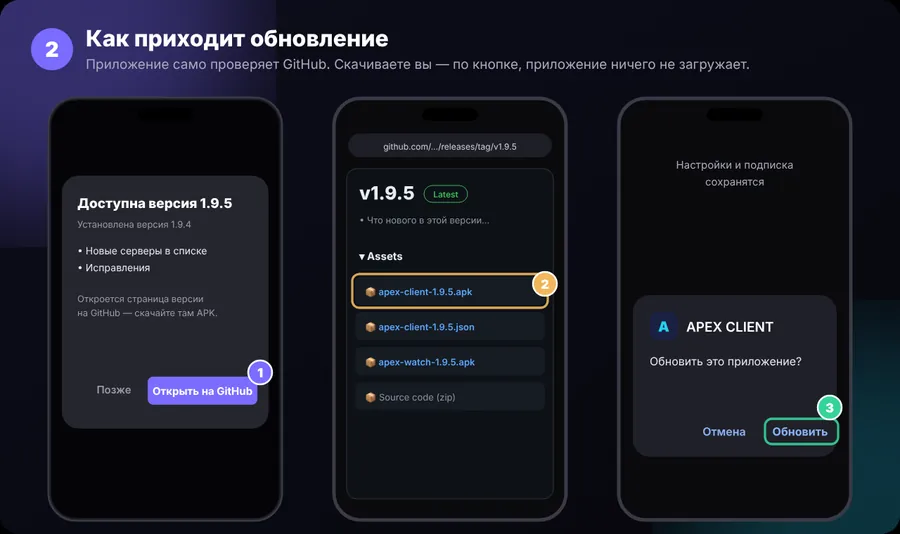
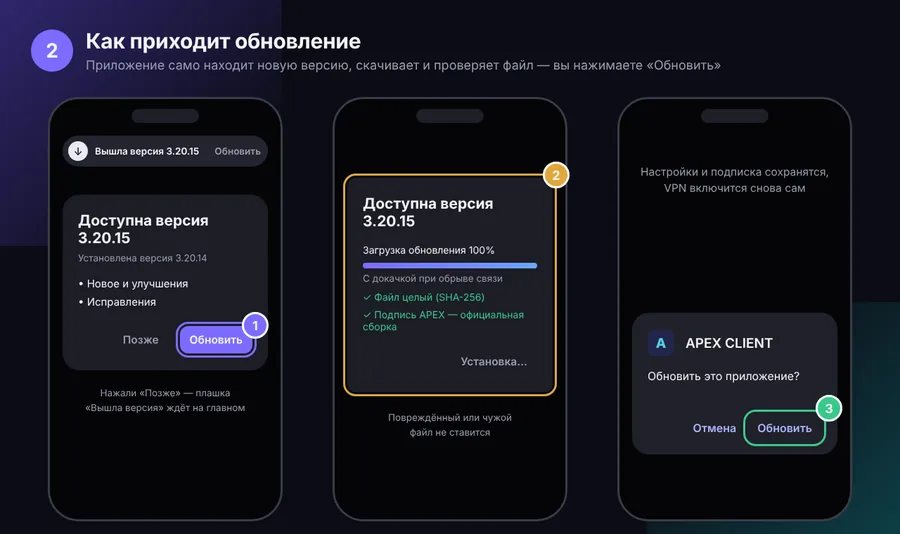
3.20.15: новые картинки и шаги «Установка» и «Как приходит обновление» (README и справка в приложении)
Claude-Session: https://claude.ai/code/session_01WchbezWYjwEwUD5w8vECWt

diff --git a/tools/guide-update/scene.html b/tools/guide-update/scene.html
@@ -1,0 +1,126 @@
+<!doctype html>
+<!-- Картинки-инструкции README: «Скачайте и установите» (?s=install) и «Как приходит обновление» (?s=update).
+     Кадр задаётся через window.frame(t), t от 0 до 1. Сборка: node render.js -->
+<html lang="ru"><head><meta charset="utf-8">
+<style>
+:root{--bg:#0b0c14;--card:#1c1d26;--line:#2c2e3a;--text:#f2f3f7;--dim:#9a9db0;--violet:#7c6cff;--gold:#e0a73c;--green:#38c98a;--blue:#6aa8ff}
+*{box-sizing:border-box;margin:0}
+body{width:1280px;height:760px;overflow:hidden;background:var(--bg);font-family:Inter,sans-serif;color:var(--text);position:relative}
+.glow1{position:absolute;left:0;top:0;width:400px;height:350px;background:linear-gradient(135deg,#3a2f8a,transparent 80%);opacity:.75}
+.glow2{position:absolute;right:0;bottom:0;width:360px;height:330px;background:linear-gradient(315deg,#0f4a52,transparent 80%);opacity:.8}
+.head{position:absolute;left:44px;top:40px;display:flex;gap:18px;align-items:center}
+.num{width:60px;height:60px;border-radius:50%;background:var(--violet);display:grid;place-items:center;font-size:28px;font-weight:700}
+h1{font-size:30px;font-weight:700;letter-spacing:-.3px}
+.sub{color:var(--dim);font-size:18px;margin-top:6px}
+.phone{position:absolute;top:138px;width:334px;height:604px;border-radius:44px;border:3px solid #3a3c48;background:#050507;padding:52px 18px 18px;overflow:hidden}
+.phone:before{content:"";position:absolute;left:50%;top:14px;width:96px;height:20px;margin-left:-48px;border-radius:12px;background:#1e1f27}
+.p1{left:68px}.p2{left:473px}.p3{left:878px}
+.badge{position:absolute;width:38px;height:38px;border-radius:50%;display:grid;place-items:center;font-weight:700;font-size:18px;border:3px solid #fff;transform:scale(0);transition:none;z-index:3}
+.dlg{background:var(--card);border-radius:24px;padding:24px 22px}
+.dlg h2{font-size:21px;font-weight:700}
+.small{color:var(--dim);font-size:13.5px;line-height:1.5}
+.btns{display:flex;justify-content:flex-end;gap:16px;align-items:center;margin-top:22px}
+.btn{padding:10px 14px;border-radius:10px;font-weight:600;font-size:15.5px}
+.ghost{color:var(--dim)}
+.ring{outline:3px solid transparent;outline-offset:3px;border-radius:12px}
+.center{text-align:center}
+.bar{height:8px;border-radius:5px;background:#2c2e3a;overflow:hidden;margin:10px 0 4px}
+.bar i{display:block;height:100%;width:0;background:linear-gradient(90deg,var(--violet),var(--blue))}
+.check{color:var(--green);font-size:14px;margin-top:8px;opacity:0}
+.pill{display:flex;align-items:center;gap:10px;background:#23242f;border-radius:30px;padding:8px 10px 8px 8px;font-size:13.5px;font-weight:600}
+.pill .ic{width:28px;height:28px;border-radius:50%;background:#e9eaf2;display:grid;place-items:center;color:#1a1b22;font-size:15px}
+.pill .go{margin-left:auto;color:var(--dim)}
+.sys{position:absolute;left:18px;right:18px;bottom:92px;background:#202129;border-radius:24px;padding:24px 22px 18px}
+.app{display:flex;gap:16px;align-items:center;font-size:19px;font-weight:600}
+.logo{width:38px;height:38px;border-radius:9px;background:#22264a;display:grid;place-items:center;color:#4fd1e8;font-weight:800}
+.sysbtn{color:#aab4ff;font-weight:600;font-size:16px}
+.site{background:linear-gradient(160deg,#1d1840,#0b0c14 70%);border-radius:22px;padding:22px 18px;height:100%}
+.url{background:#1c1d26;border-radius:14px;padding:8px;text-align:center;font-size:13px;color:#c9cbd6;margin-bottom:22px}
+.shield{width:92px;height:104px;margin:16px auto 12px;background:linear-gradient(160deg,#8b7dff,#4d3fd6);clip-path:path('M46 0 L92 18 L92 52 C92 80 70 96 46 104 C22 96 0 80 0 52 L0 18 Z');display:grid;place-items:center;font-size:40px}
+.dlbtn{background:var(--violet);border-radius:14px;padding:14px;text-align:center;font-weight:700;font-size:16px;margin-top:22px}
+.file{background:var(--card);border-radius:16px;padding:16px 18px}
+.file b{font-size:16px}
+.tip{border:1.5px solid #7a5a2a;background:#2a2116;border-radius:16px;padding:16px 18px;font-size:15px;line-height:1.5}
+</style></head><body>
+<div class="glow1"></div><div class="glow2"></div>
+<div id="root"></div>
+<script>
+const V = '3.20.15', OLD = '3.20.14';
+const S = new URLSearchParams(location.search).get('s') || 'update';
+const B = (n, color, x, y) => `<div class="badge" id="b${n}" style="background:${color};left:${x}px;top:${y}px">${n}</div>`;
+const scenes = {
+install: `
+<div class="head"><div class="num">1</div><div><h1>Скачайте и установите</h1>
+<div class="sub">Сайт dubstep2004.github.io → «Скачать для телефона» → установить</div></div></div>
+<div class="phone p1"><div class="site">
+  <div class="url">dubstep2004.github.io</div>
+  <div class="shield">✓</div>
+  <div class="center" style="font-size:24px;font-weight:800">APEX CLIENT</div>
+  <div class="center small" style="margin-top:6px">Своё приложение для вашей подписки</div>
+  <div class="dlbtn ring" id="r1">Скачать для телефона</div>
+  <div class="center small" style="margin-top:10px">Версия ${V} · Android 7+</div>
+  <div class="center small" style="margin-top:18px;opacity:.7">Для часов — отдельная кнопка</div>
+</div></div>
+<div class="phone p2">
+  <div class="center small" style="font-size:16px;color:#d6d8e2;margin-bottom:22px">Загрузки</div>
+  <div class="file ring" id="r2"><b>apex-client-${V}.apk</b><div class="small" style="margin-top:4px">Только что</div></div>
+  <div class="center small" style="margin:40px 0;font-size:15px">Нажмите на скачанный файл<br>в загрузках или в уведомлении</div>
+  <div class="tip">Первый раз телефон спросит разрешение «Установка из браузера» — разрешите.</div>
+</div>
+<div class="phone p3">
+  <div class="center small" style="font-size:15.5px;margin-top:40px">Ставили старую версию<br>с другой подписью — удалите её</div>
+  <div class="sys"><div class="app"><div class="logo">A</div>APEX CLIENT</div>
+  <div style="margin:18px 0 44px;font-size:16px">Установить это приложение?</div>
+  <div class="btns"><span class="sysbtn">Отмена</span><span class="sysbtn btn ring" id="r3">Установить</span></div></div>
+</div>
+${B(1, 'var(--gold)', 352, 476)}${B(2, 'var(--violet)', 772, 222)}${B(3, 'var(--green)', 1160, 562)}`,
+update: `
+<div class="head"><div class="num">2</div><div><h1>Как приходит обновление</h1>
+<div class="sub">Приложение само находит новую версию, скачивает и проверяет файл — вы нажимаете «Обновить»</div></div></div>
+<div class="phone p1">
+  <div class="pill"><div class="ic">↓</div>Вышла версия ${V}<span class="go">Обновить</span></div>
+  <div class="dlg" style="margin-top:40px"><h2>Доступна версия ${V}</h2>
+  <div class="small" style="margin-top:6px">Установлена версия ${OLD}</div>
+  <div style="font-size:15px;line-height:1.7;margin-top:14px">• Новое и улучшения<br>• Исправления</div>
+  <div class="btns"><span class="btn ghost">Позже</span><span class="btn ring" id="r1" style="background:var(--violet)">Обновить</span></div></div>
+  <div class="center small" style="margin-top:22px">Нажали «Позже» — плашка<br>«Вышла версия» ждёт на главном</div>
+</div>
+<div class="phone p2">
+  <div class="dlg ring" id="r2" style="margin-top:60px"><h2>Доступна версия ${V}</h2>
+  <div style="font-size:14px;margin-top:20px" id="pct">Загрузка обновления 0%</div>
+  <div class="bar"><i id="bar"></i></div>
+  <div class="small">С докачкой при обрыве связи</div>
+  <div class="check" id="c1">✓ Файл целый (SHA-256)</div>
+  <div class="check" id="c2">✓ Подпись APEX — официальная сборка</div>
+  <div class="btns"><span class="btn ghost" id="st">Загрузка…</span></div></div>
+  <div class="center small" style="margin-top:26px">Повреждённый или чужой<br>файл не ставится</div>
+</div>
+<div class="phone p3">
+  <div class="center small" style="font-size:15.5px;margin-top:40px">Настройки и подписка сохранятся,<br>VPN включится снова сам</div>
+  <div class="sys"><div class="app"><div class="logo">A</div>APEX CLIENT</div>
+  <div style="margin:18px 0 44px;font-size:16px">Обновить это приложение?</div>
+  <div class="btns"><span class="sysbtn">Отмена</span><span class="sysbtn btn ring" id="r3">Обновить</span></div></div>
+</div>
+${B(1, 'var(--violet)', 344, 444)}${B(2, 'var(--gold)', 772, 230)}${B(3, 'var(--green)', 1160, 562)}`};
+document.getElementById('root').innerHTML = scenes[S];
+const colors = S === 'install' ? ['var(--gold)', 'var(--violet)', 'var(--green)'] : ['var(--violet)', 'var(--gold)', 'var(--green)'];
+const pop = (x) => x <= 0 ? 0 : x >= 1 ? 1 : 1 + 0.25 * Math.sin(Math.PI * x) * (1 - x) * 3 - 0.0;
+window.frame = (t) => {
+  const starts = [0.04, 0.32, 0.66];
+  starts.forEach((s, i) => {
+    const k = Math.min(1, Math.max(0, (t - s) / 0.08));
+    document.getElementById('b' + (i + 1)).style.transform = `scale(${k <= 0 ? 0 : pop(k)})`;
+    const r = document.getElementById('r' + (i + 1));
+    r.style.outlineColor = k > 0 ? colors[i] : 'transparent';
+  });
+  if (S === 'update') {
+    const p = Math.min(1, Math.max(0, (t - 0.34) / 0.2));
+    document.getElementById('bar').style.width = (p * 100) + '%';
+    document.getElementById('pct').textContent = 'Загрузка обновления ' + Math.round(p * 100) + '%';
+    document.getElementById('c1').style.opacity = t > 0.56 ? 1 : 0;
+    document.getElementById('c2').style.opacity = t > 0.61 ? 1 : 0;
+    document.getElementById('st').textContent = t > 0.64 ? 'Установка…' : 'Загрузка…';
+  }
+};
+window.frame(1);
+</script></body></html>

diff --git a/app/src/main/java/com/apexvpn/client/data/HelpTopics.kt b/app/src/main/java/com/apexvpn/client/data/HelpTopics.kt
@@ -6,10 +6,10 @@ data class HelpTopic(val emoji: String, val title: String, val image: String?, v
 object HelpTopics {
     val all = listOf(
         HelpTopic("📲", "Установка и обновление", "gh_update", listOf(
-            "Новые версии выходят на GitHub: github.com/Dubstep2004/apex-client/releases.",
-            "Приложение само проверяет GitHub и показывает окно «Доступна версия» — нажмите «Открыть на GitHub».",
-            "Скачайте apex-client-<версия>.apk и установите поверх — настройки сохранятся.",
-            "apex-watch-<версия>.apk — только для часов, на телефон его не ставьте.",
+            "Установка: сайт dubstep2004.github.io → «Скачать для телефона» → откройте файл → «Установить».",
+            "Обновление приходит само: окно «Доступна версия» → «Обновить». Приложение скачает файл и проверит подпись.",
+            "Нажали «Позже» — на главном экране останется плашка «Вышла версия … Обновить».",
+            "Настройки и подписка сохраняются. apex-watch-<версия>.apk — только для часов, на телефон его не ставьте.",
         )),
         HelpTopic("📋", "Свои списки и шаблоны", "lists", listOf(
             "Режим → Свои списки → «Новый список».",

diff --git a/tools/guide-update/render.js b/tools/guide-update/render.js
@@ -1,0 +1,21 @@
+// Рисует картинки-инструкции из scene.html: живые WebP для README (docs/guide) и неподвижные для справки в приложении (assets/help).
+// Запуск из корня репозитория: NODE_PATH=$(npm root -g) node tools/guide-update/render.js
+const { chromium } = require('playwright');
+const { execFileSync } = require('child_process');
+const fs = require('fs'), path = require('path'), os = require('os');
+const N = 36; // кадров анимации, плюс пауза на последнем
+(async () => {
+  const b = await chromium.launch();
+  const page = await b.newPage({ viewport: { width: 1280, height: 760 } });
+  for (const [s, name] of [['install', 'gh_install'], ['update', 'gh_update']]) {
+    await page.goto('file://' + path.resolve(__dirname, 'scene.html') + '?s=' + s);
+    await page.evaluate(() => document.fonts.ready);
+    const dir = fs.mkdtempSync(path.join(os.tmpdir(), 'guide-'));
+    for (let i = 0; i < N; i++) {
+      await page.evaluate((t) => window.frame(t), i / (N - 1));
+      await page.screenshot({ path: path.join(dir, String(i).padStart(3, '0') + '.png') });
+    }
+    execFileSync('python3', [path.resolve(__dirname, 'pack.py'), dir, 'docs/guide/' + name + '.webp', 'app/src/main/assets/help/' + name + '.webp'], { stdio: 'inherit' });
+  }
+  await b.close();
+})();

diff --git a/docs/admin/index.html b/docs/admin/index.html
@@ -873,7 +873,7 @@
     <!-- Справка -->
     <section data-tab="help" hidden class="helpdoc">
       <h1>Справка для владельца</h1>
-      <p class="lead">Как пользоваться пультом, выпускать версии и что делать, если что-то не работает. Обновлено 13 ноября 2026 · приложение 3.20.14 · пульт 2.19.</p>
+      <p class="lead">Как пользоваться пультом, выпускать версии и что делать, если что-то не работает. Обновлено 13 ноября 2026 · приложение 3.20.15 · пульт 2.19.</p>
       <div class="helptools">
         <input id="hq" type="search" placeholder="Найти в справке, например «техработы»" aria-label="Найти в справке" autocomplete="off">
         <button class="btn quiet small" id="hOpen" type="button">Развернуть всё</button>

diff --git a/tools/guide-update/pack.py b/tools/guide-update/pack.py
@@ -1,0 +1,10 @@
+"""Кадры PNG → живой WebP (README) и неподвижный последний кадр 900×534 (справка в приложении)."""
+import glob, sys
+from PIL import Image
+
+src, anim, still = sys.argv[1:4]
+frames = [Image.open(f).convert('RGB') for f in sorted(glob.glob(src + '/*.png'))]
+durs = [90] * (len(frames) - 1) + [2600]  # последний кадр держим подольше
+frames[0].save(anim, save_all=True, append_images=frames[1:], duration=durs, loop=0, quality=80, method=6)
+frames[-1].resize((900, 534), Image.LANCZOS).save(still, quality=82, method=6)
+print(anim, still)

diff --git a/README.md b/README.md
@@ -17,7 +17,7 @@
 <p><b>Два ядра</b> · все популярные протоколы · <b>свои списки</b> с шаблонами · <b>3D-глобус</b> · <b>13 дизайнов</b>, палитры и <b>живое видео на фоне</b><br>
 автопилот с белыми списками · DNS «Авто» для каждой сети · базы сайтов каждый день · часы Wear OS</p>
 
-<sub>📱 Android — <b>3.20.14</b> (Android 7+) · sing-box 1.13 · Xray 26</sub><br>
+<sub>📱 Android — <b>3.20.15</b> (Android 7+) · sing-box 1.13 · Xray 26</sub><br>
 <sub>🌐 Сайт: <a href="https://dubstep2004.github.io">dubstep2004.github.io</a> · 💬 Поддержка: <a href="https://t.me/Apexx_support">@Apexx_support</a></sub>
 
 </div>
@@ -95,8 +95,8 @@
 
 <img src="docs/guide/gh_install.webp" width="100%">
 
-1. Откройте на телефоне **[последнюю версию](https://github.com/Dubstep2004/apex-client/releases/latest)**.
-2. В разделе **Assets** нажмите **`apex-client-<версия>.apk`** — файл скачается.
+1. Откройте на телефоне сайт **[dubstep2004.github.io](https://dubstep2004.github.io)** и нажмите **«Скачать для телефона»** — скачается `apex-client-<версия>.apk`. Тот же файл есть на странице **[последней версии](https://github.com/Dubstep2004/apex-client/releases/latest)** в разделе Assets (`apex-watch-…` — только для часов).
+2. Не знаете, как ставить? **[Видео за минуту](https://dubstep2004.github.io/update/)**.
 3. Откройте скачанный файл и нажмите **«Установить»**. Первый раз телефон попросит разрешить установку из браузера — разрешите.
 4. При первом запуске — короткое **знакомство** из трёх экранов → **«Начать»** (или «Пропустить»).
 5. Вставьте ссылку подписки `https://sub.knownhosts.xyz/…` или нажмите **«Сканировать QR-код»** — подходит и QR подписки, и [QR переноса со старого телефона](#transfer).
@@ -114,11 +114,11 @@
 
 <img src="docs/guide/gh_update.webp" width="100%">
 
-Приложение само проверяет GitHub — при запуске и раз в час. С версии **3.4 — обновление в один клик**:
+Приложение само проверяет GitHub — при запуске и раз в час. Обновление — **в один клик**:
 
-1. Появляется окно **«Доступна версия …»** со списком изменений (или уведомление, если приложение закрыто).
-2. Нажмите **«Обновить»**: приложение скачает `apex-client-<версия>.apk` из релиза (с докачкой при обрыве), сверит **SHA-256** и **подпись** — повреждённый или чужой файл не ставится.
-3. В окне Android нажмите **«Установить»**. Настройки и подписка сохранятся, VPN включится снова сам.
+1. Появляется окно **«Доступна версия …»** со списком изменений (или уведомление, если приложение закрыто). Нажали **«Позже»** — вверху главного экрана останется плашка **«Вышла версия … Обновить»**, пока не обновитесь.
+2. Нажмите **«Обновить»**: приложение само скачает `apex-client-<версия>.apk` из релиза (с докачкой при обрыве), сверит **SHA-256** и **подпись** — повреждённый или чужой файл не ставится.
+3. В окне Android нажмите **«Обновить»**. Настройки и подписка сохранятся, VPN включится снова сам.
 
 В первый раз Android попросит разрешить **установку из APEX CLIENT** — приложение само откроет этот экран. На Android 12+ следующие обновления могут ставиться **без вопроса**: прошлую версию уже поставил сам APEX.
 
@@ -868,15 +868,24 @@ core/apexcore/          Go: разбор подписки → конфиги sin
 
 <img src="docs/img/tags/new.svg" alt="Новое" height="22"> <img src="docs/img/tags/improved.svg" alt="Улучшено" height="22"> <img src="docs/img/tags/changed.svg" alt="Изменено" height="22"> <img src="docs/img/tags/fixed.svg" alt="Исправлено" height="22"> <img src="docs/img/tags/removed.svg" alt="Удалено" height="22">
 
-### 3.20.14 · 13 ноября 2026
+### 3.20.15 · 13 ноября 2026
+
+<img src="docs/img/tags/improved.svg" alt="Улучшено" height="22">
+
+- Справка «Установка и обновление»: новые картинки и шаги — скачать с сайта, обновлять одной кнопкой «Обновить», плашка «Вышла версия» на главном
+
+#### 📚 Все версии (137)
+
+Каждая версия — отдельная вкладка.
+
+<details>
+<summary><b>3.20.14</b> · 13 ноября 2026</summary>
 
 <img src="docs/img/tags/new.svg" alt="Новое" height="22">
 
 - Видео-инструкция: в «Справке» и в настройках — «Видео: как пользоваться» (35 секунд: установка, подписка, щит и обновления)
 
-#### 📚 Все версии (136)
-
-Каждая версия — отдельная вкладка.
+</details>
 
 <details>
 <summary><b>3.20.13</b> · 13 ноября 2026</summary>

diff --git a/docs/CHANGELOG.md b/docs/CHANGELOG.md
@@ -2,6 +2,12 @@
 
 <img src="img/tags/new.svg" height="22"> <img src="img/tags/improved.svg" height="22"> <img src="img/tags/changed.svg" height="22"> <img src="img/tags/fixed.svg" height="22"> <img src="img/tags/removed.svg" height="22">
 
+## 3.20.15 · 13 ноября 2026
+
+<img src="img/tags/improved.svg" alt="Улучшено" height="22">
+
+- Справка «Установка и обновление»: новые картинки и шаги — скачать с сайта, обновлять одной кнопкой «Обновить», плашка «Вышла версия» на главном
+
 ## 3.20.14 · 13 ноября 2026
 
 <img src="img/tags/new.svg" alt="Новое" height="22">
